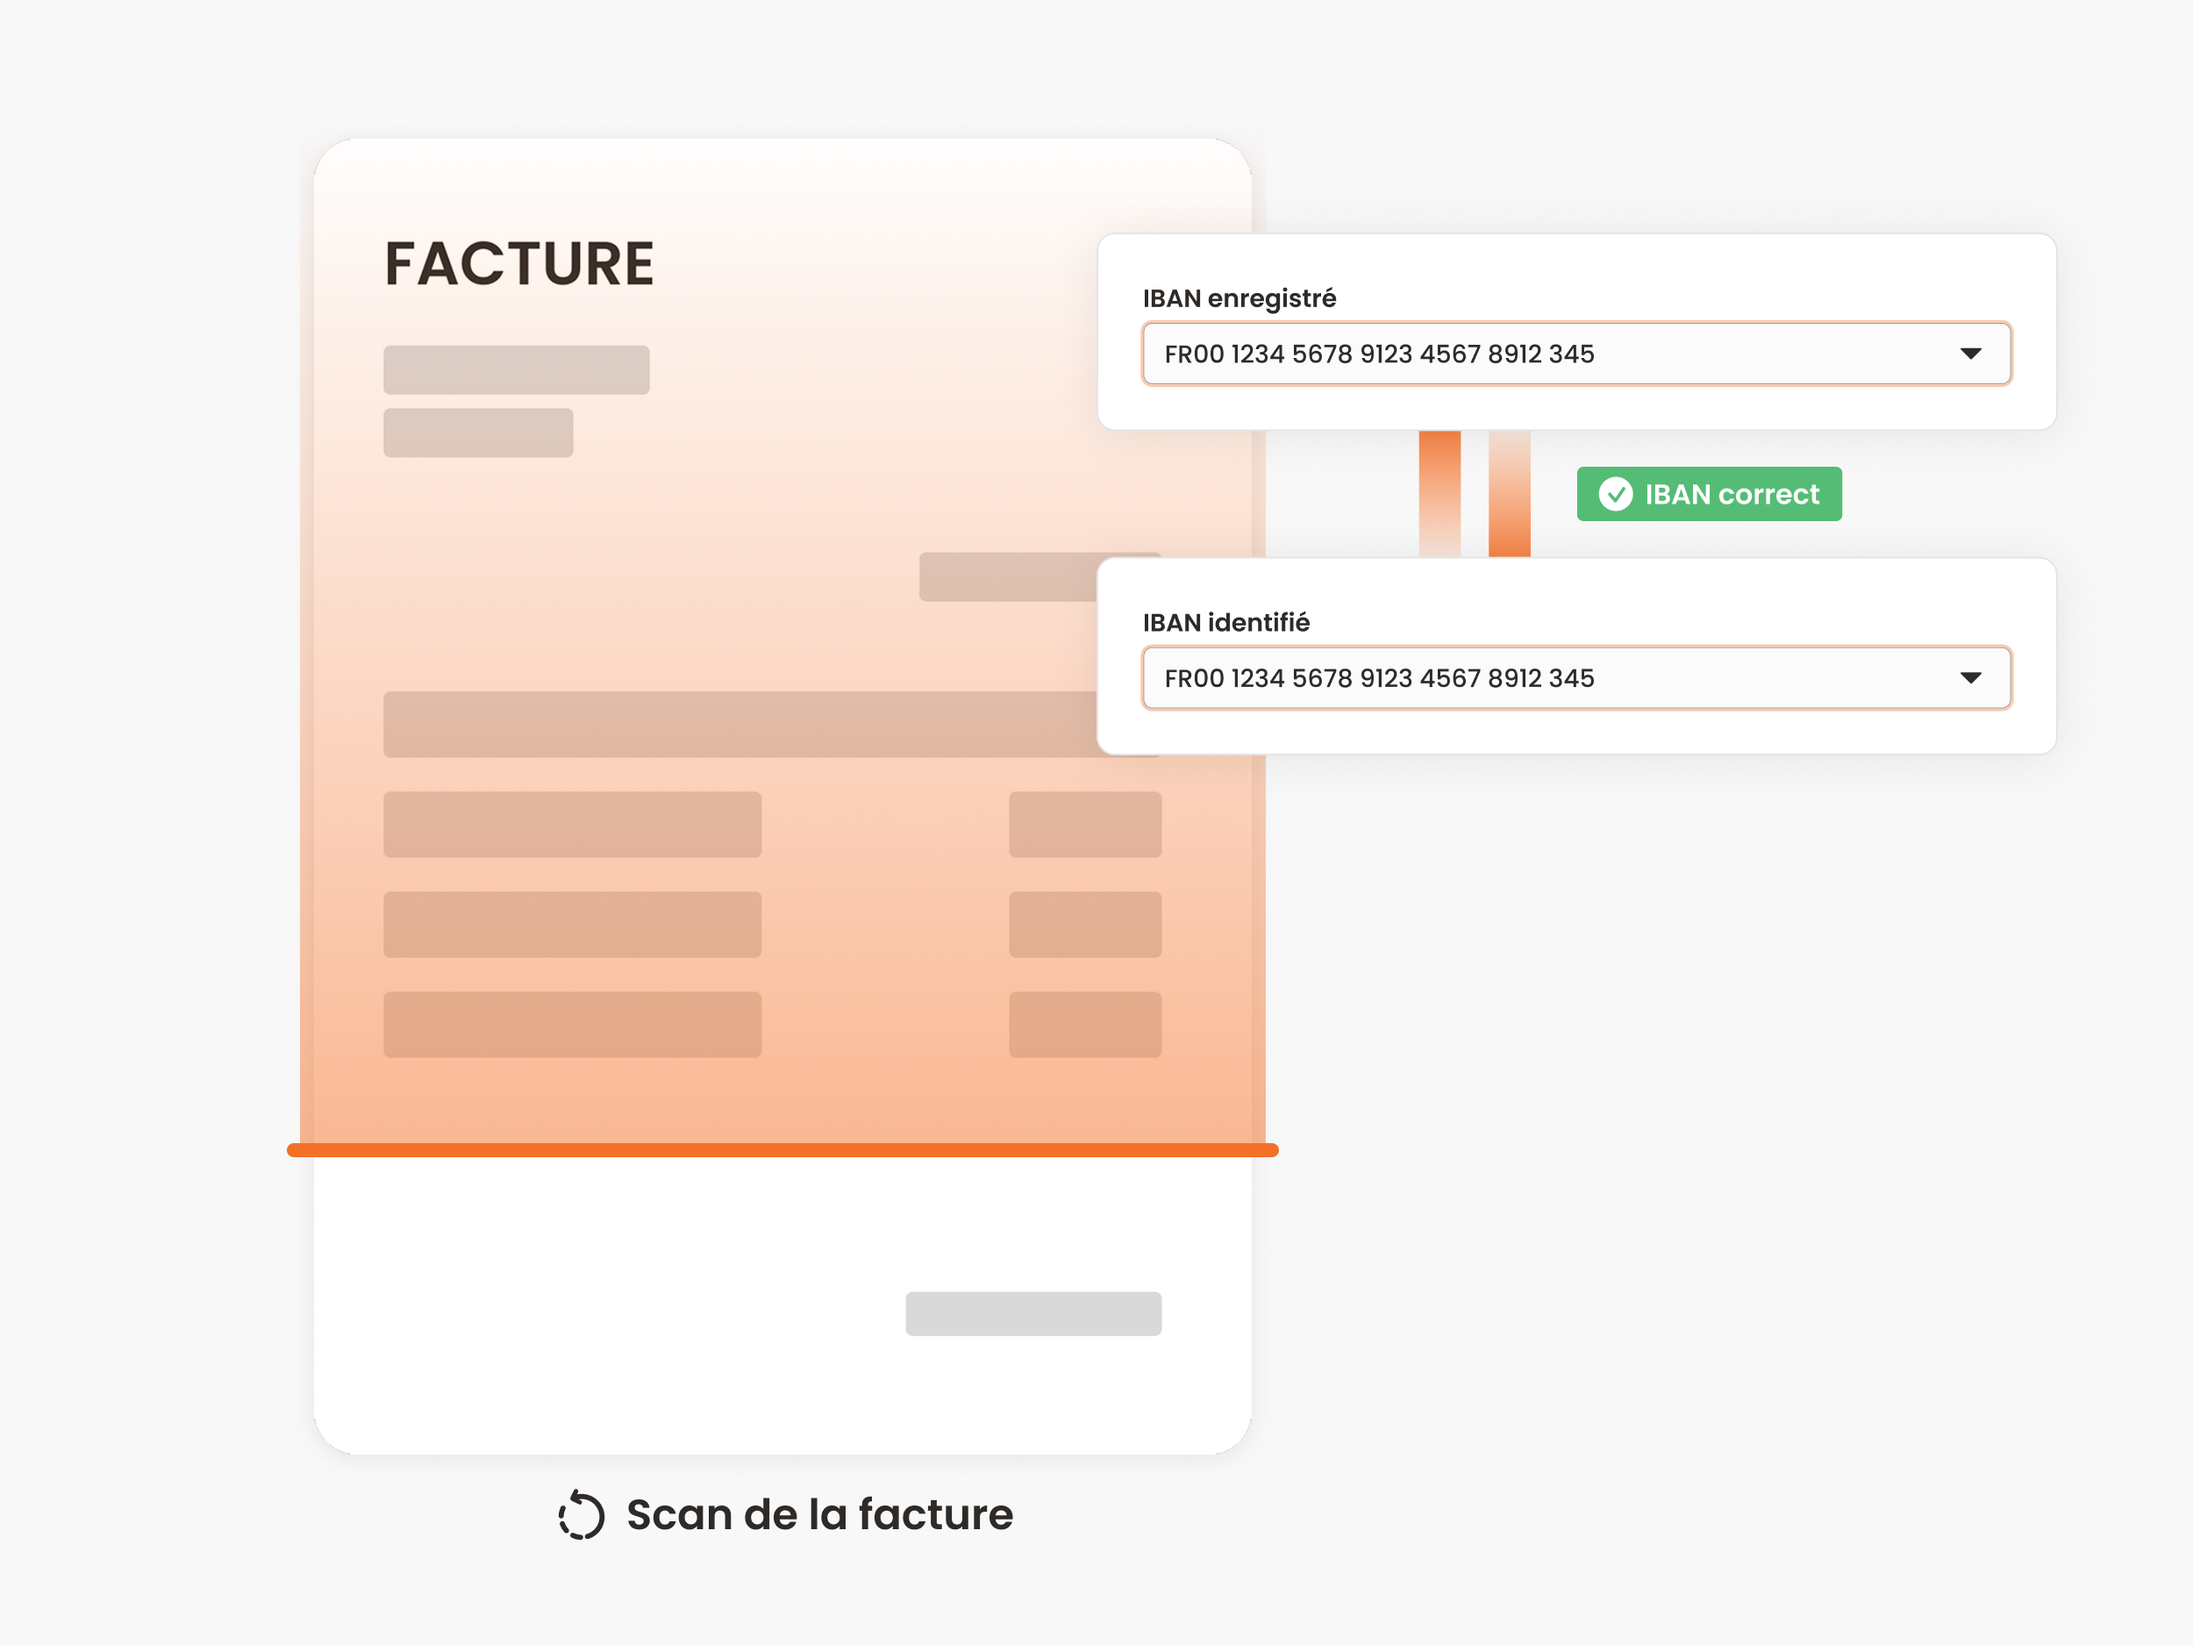
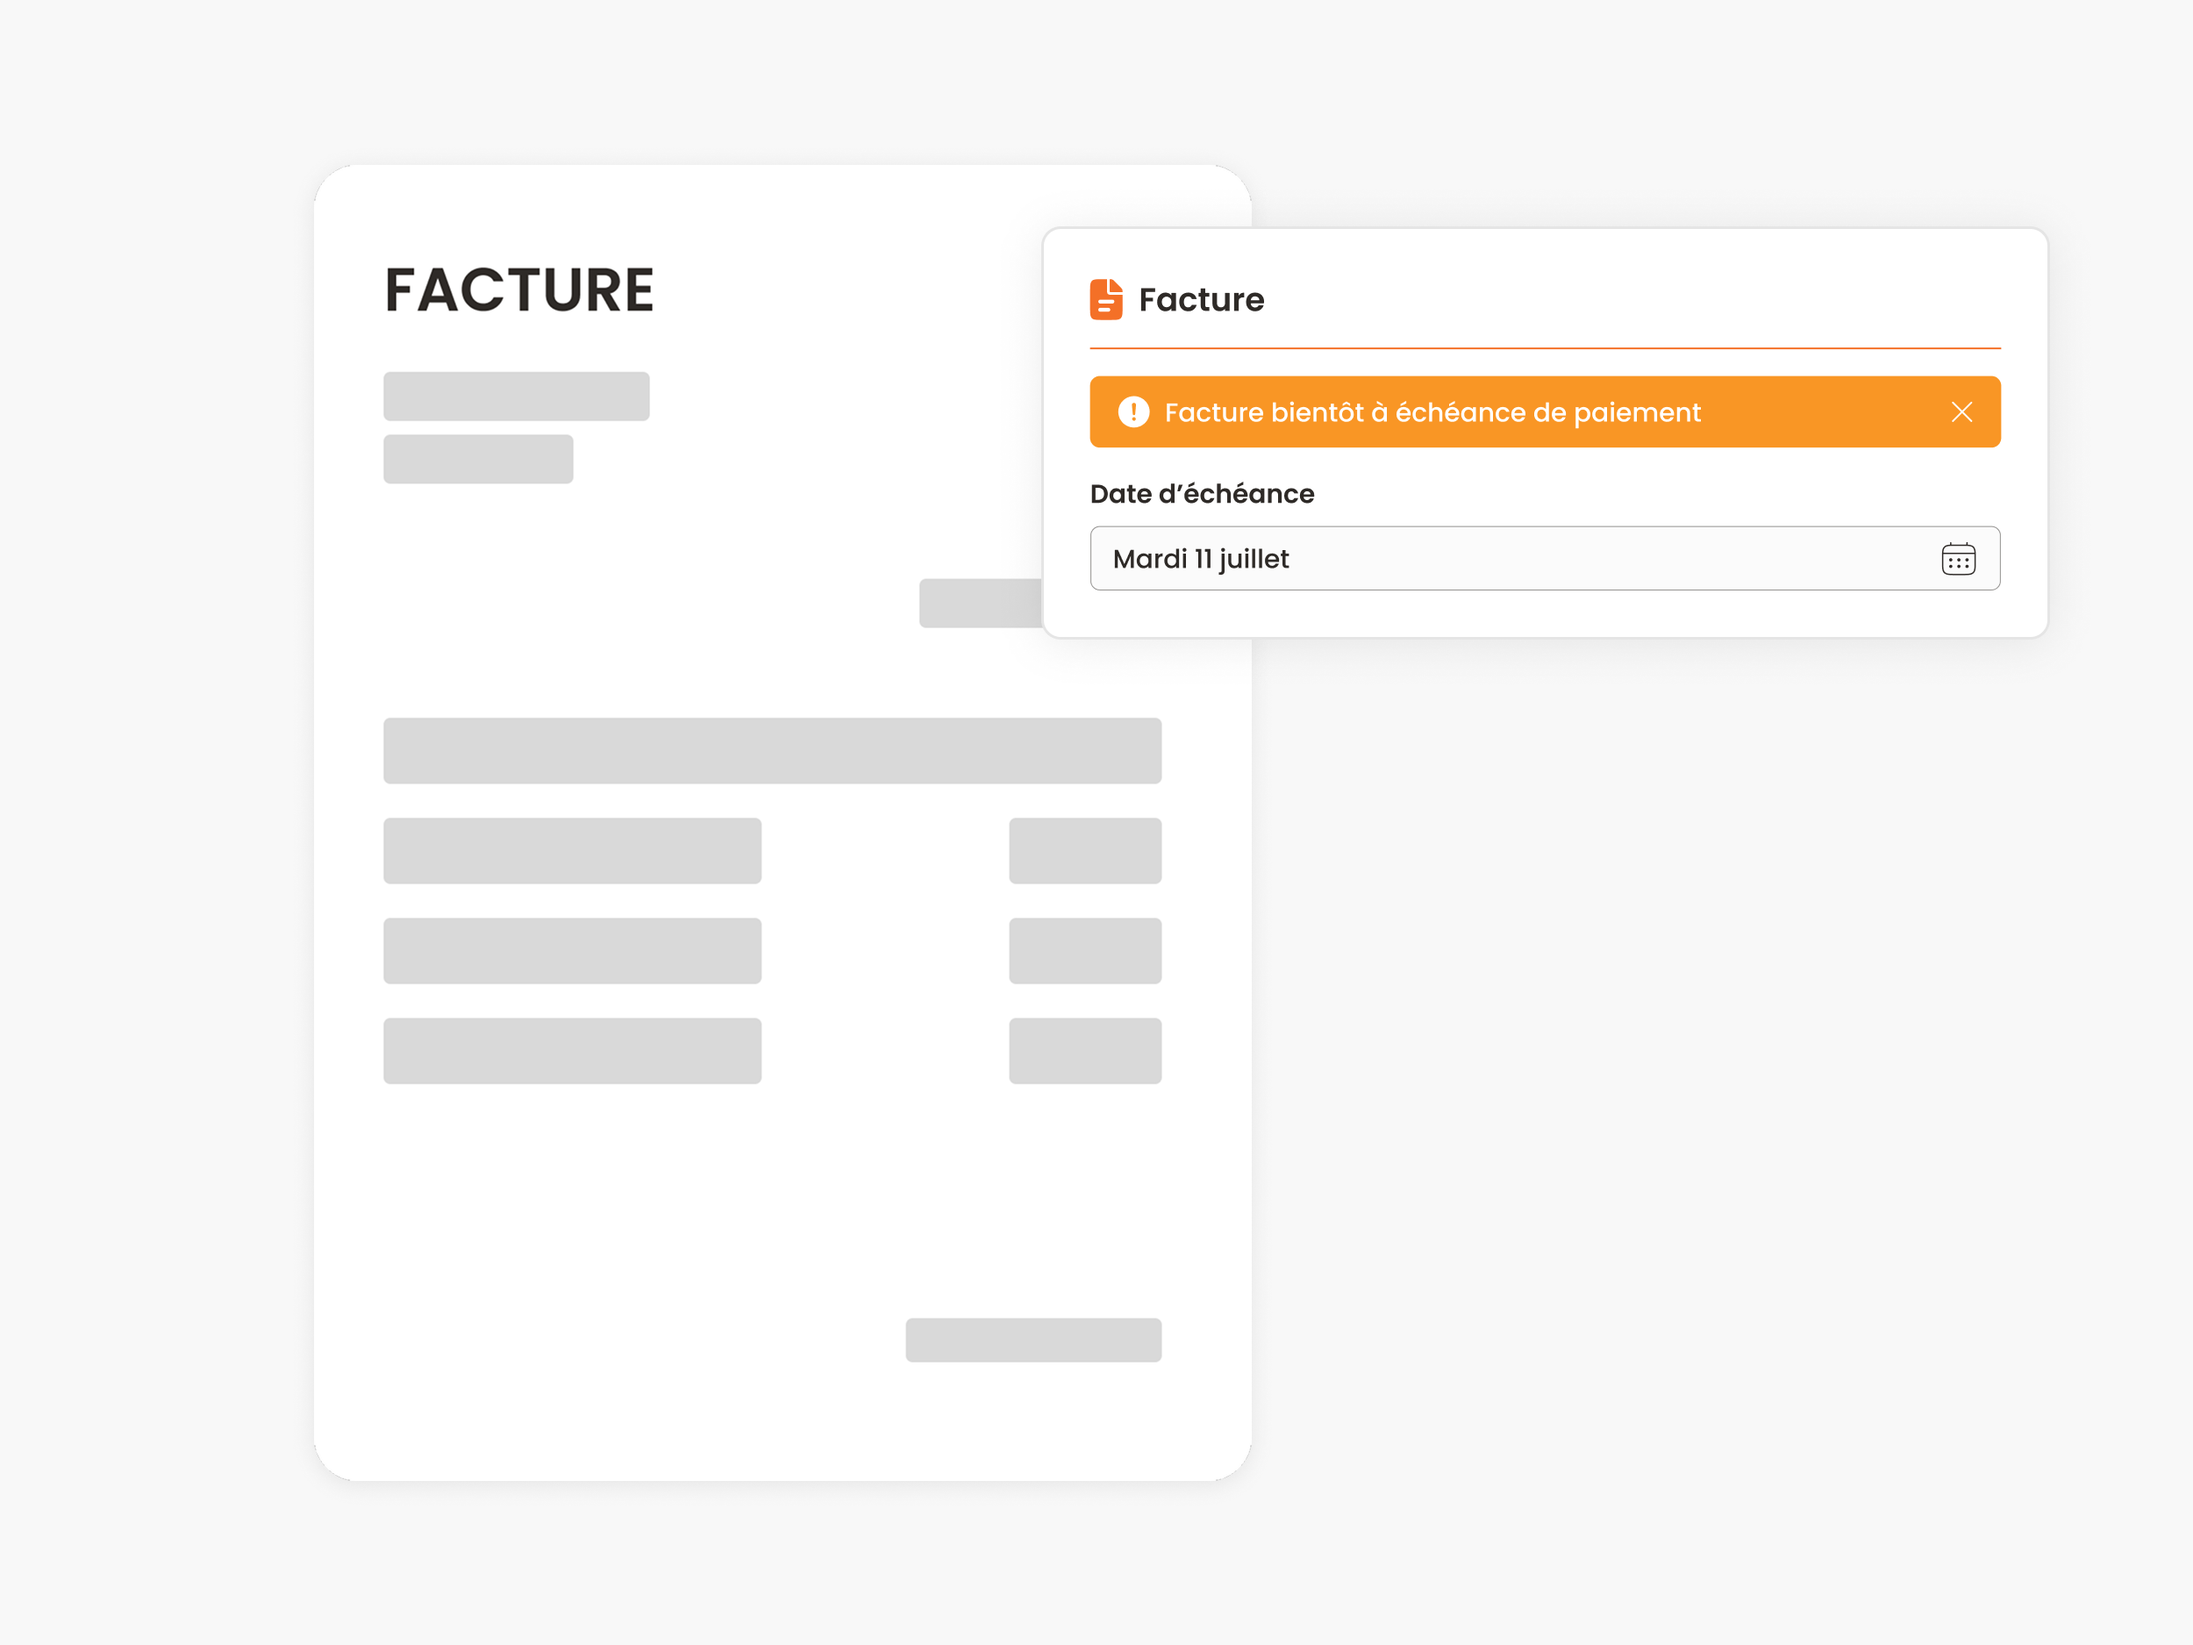
Fix reforme-2026: mobile float cards visible + correct budget/SEPA visuals
- Show hero floating cards on mobile (shrink instead of display:none)
- Replace lifestyle budget composite with actual N2F budget dashboard UI
- Replace IBAN verification with payment deadline tracker for SEPA section
- Regenerate WebP for both replaced images

Changed region(s): [[0.1248, 0.1237, 0.936, 0.7115], [0.4056, 0.7733, 0.5304, 0.8352], [0.2496, 0.8971, 0.468, 0.928]]

diff --git a/public/fr/reforme-2026/index.html b/public/fr/reforme-2026/index.html
@@ -364,7 +364,7 @@ a{color:inherit;text-decoration:none}
 .hero-pills .hp{display:inline-flex;align-items:center;gap:6px;background:var(--cream);border:1px solid var(--apricot);border-radius:999px;padding:6px 14px;font-size:.72rem;font-weight:600;color:var(--dark);white-space:nowrap}
 .hero-pills .hp svg{width:14px;height:14px;flex-shrink:0}
 .hp--green svg{color:var(--green)}.hp--orange svg{color:var(--orange)}.hp--blue svg{color:var(--blue)}.hp--syracuse svg{color:var(--syracuse)}
-@media(max-width:768px){.hero-float{display:none !important}.hero-pills{display:flex !important}}
+@media(max-width:768px){.hero-float{padding:6px 8px;font-size:.65rem}.hero-float .hf-icon{width:22px;height:22px}.hero-float .hf-icon svg{width:13px;height:13px}.hero-float .hf-label{font-size:.6rem}.hero-float .hf-val{font-size:.55rem}.hf-1{left:0;top:2%}.hf-2{right:0;top:6%}.hf-3{left:0;bottom:14%}.hf-4{right:0;bottom:2%}.hero-pills{display:none !important}}
 
 /* === REDUCED MOTION === */
 @media(prefers-reduced-motion:reduce){
